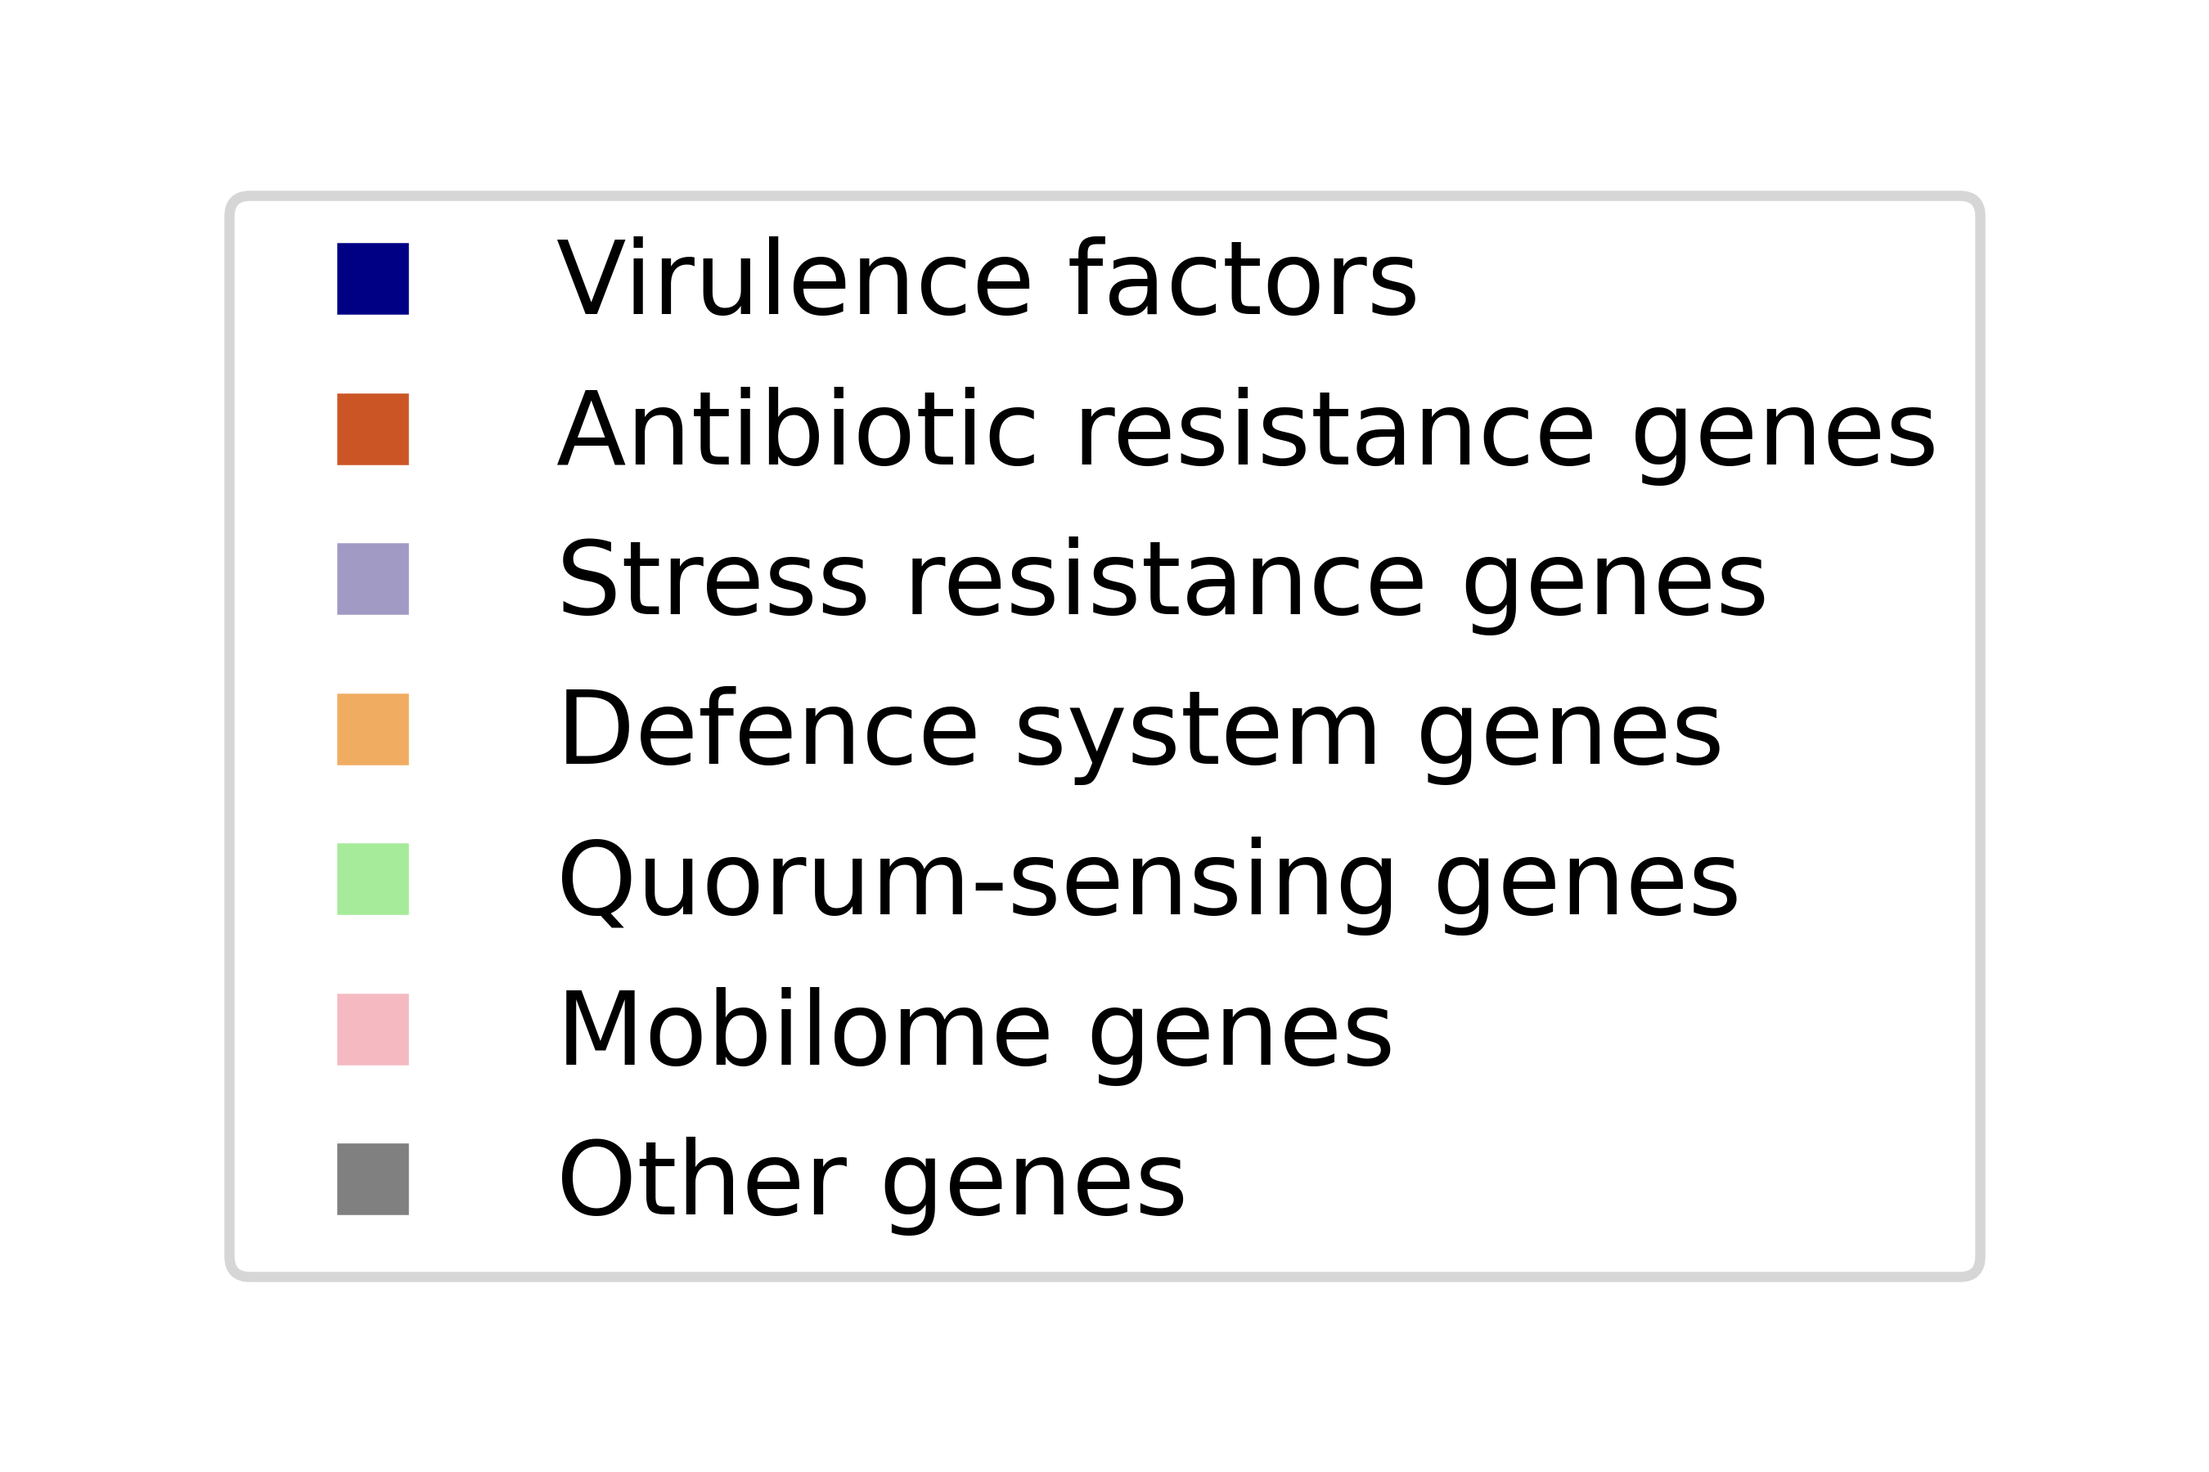
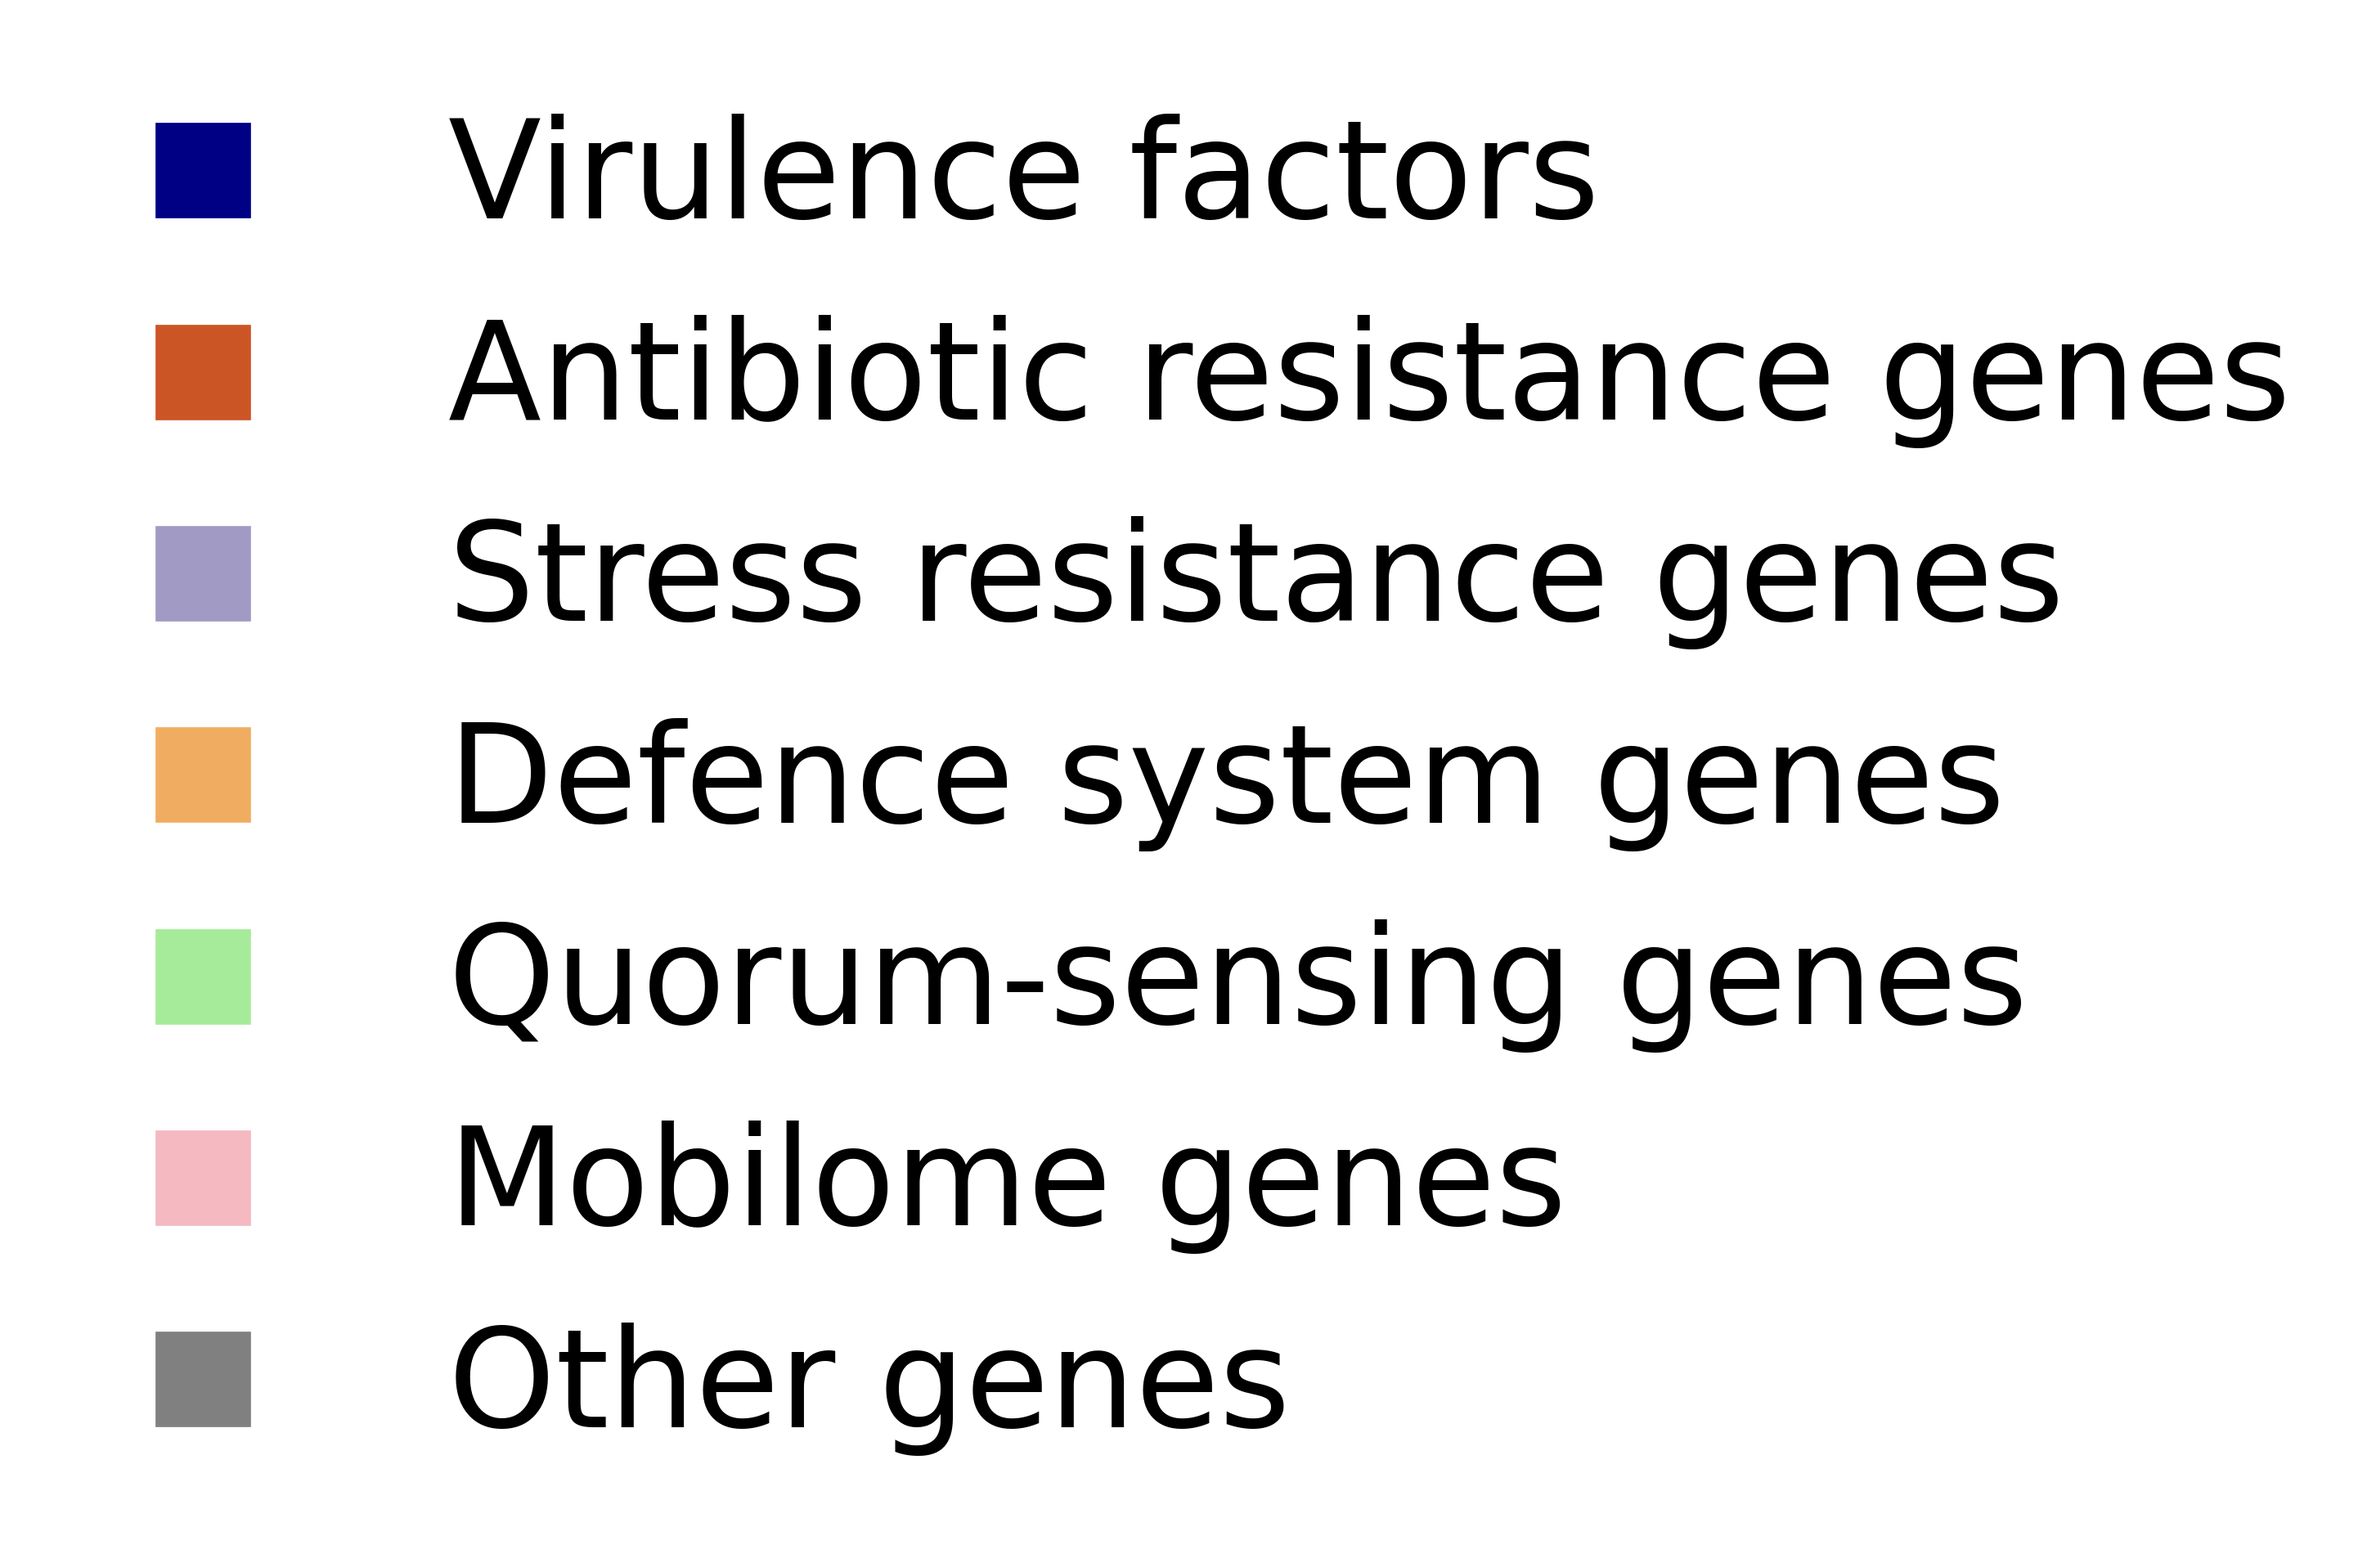
Formatting improvements
Enhanced image resolution, bold text appears better

Changed region(s): [[0.0622, 0.0622, 0.9644, 0.9333]]

diff --git a/index.html b/index.html
@@ -1,6 +1,15 @@
 <!DOCTYPE html>
 <html>
 
+<style>
+    @import url('https://fonts.googleapis.com/css2?family=Open+Sans:ital,wght@0,300;0,400;0,500;0,600;0,700;0,800;1,300;1,400;1,500;1,600;1,700;1,800&display=swap');
+
+    b, strong{
+        font-weight: 600;
+    }
+
+</style>
+
 <head>
     <title>
         Genomic plasticity as a blueprint of diversity in Salmonella lineages
@@ -17,9 +26,10 @@
     <div class="container">
 
         <!-- Heading, centered -->
-        <h2> <center>
-            Genomic plasticity as a blueprint of diversity in <i>Salmonella</i> lineages
-        </center> </h2>
+        <h1 style="font-weight: 600;"> <center>
+            Genomic plasticity as a blueprint of diversity <br>
+            in <i>Salmonella</i> lineages
+        </center> </h1>
         <!-- Authors' list -->
         <p>
             <i> <center>
@@ -28,65 +38,58 @@
             </center> </i>
             <br>
             The clusters of accessory shell and cloud genes form the region of genome plasticity (RGP) primarily originating from horizontal gene transfer events. These RGPs can be grouped into specific insertion spots based on the presence of conserved flanking persistent genes.
+            All code can be found <a href="https://github.com/SimranKushwaha/Genome-Plasticity-in-Salmonella"><b>here</b></a>.
             <br> <br>
             <!-- image -->
             <center>
-                <img src="img/RGP and Spot.png" alt="RGP and Spot" width="50%">
+                <img src="img/RGP and Spot.png" alt="RGP and Spot" width="60%">
             </center>
-            <br> <br>
             We identified 26 hotspots in <i>Salmonella</i>. Visualise the gene content of the spots and the RGPs with our interactive HTML files:
-            <br>
+            <br><br>
             <!-- List of Spots -->
-            <a href="spots/spot1.html">Spot 1 </a> – A hotspot for defence systems, particularly Septu type I <br>
-            <a href="spots/spot9.html">Spot 9</a> – A hotspot for virulence factors, particularly <i>sod</i> <br>
-            <a href="spots/spot11.html">Spot 11</a> – A hotspot for defence systems, particularly AbiE and Shango <br>
-            <a href="spots/spot15.html">Spot 15</a> – A hotspot for virulence factors, particularly <i>cdt</i> <br>
-            <a href="spots/spot17.html">Spot 17</a> – A hotspot for stress-resistance genes against gold <br>
-            <a href="spots/spot21.html">Spot 21</a> – A hotspot for virulence factors <i>ste</i> and <i>sse</i> <br>
-            <a href="spots/spot22.html">Spot 22</a> – A hotspot for defence systems CRISPR-Cas type I-E <br>
-            <a href="spots/spot30.html">Spot 30</a> – A hotspot for virulence factors <i>lpf</i> <br>
-            <a href="spots/spot31.html">Spot 31</a> – A hotspot for defence systems SEFIR <br>
-            <a href="spots/spot32.html">Spot 32</a> – A hotspot for virulence factors <i>sse</i> <br>
-            <a href="spots/spot36.html">Spot 36</a> – A hotspot for virulence factors, particularly <i>fae</i> <br>
-            <a href="spots/spot39.html">Spot 39</a> – A hotspot for multiple defence systems <br>
-            <a href="spots/spot43.html">Spot 43</a> – A hotspot for multiple defence systems <br>
-            <a href="spots/spot44.html">Spot 44</a> – A hotspot for multiple antibiotic resistance genes <br>
-            <a href="spots/spot47.html">Spot 47</a> – A hotspot for virulence factor <i>tcp</i> and defence systems Thoeris type I and II <br>
-            <a href="spots/spot51.html">Spot 51</a> – A hotspot for multiple antibiotic  and stress-resistance genes <br>
-            <a href="spots/spot53.html">Spot 53</a> – A hotspot for stress-resistance genes against copper and silver <br>
-            <a href="spots/spot54.html">Spot 54</a> – A hotspot for multiple virulence factors <br>
-            <a href="spots/spot63.html">Spot 63</a> – A hotspot for multiple defence systems <br>
-            <a href="spots/spot66.html">Spot 66</a> – A hotspot for defence system CBASS type I <br>
-            <a href="spots/spot68.html">Spot 68</a> – A hotspot for defence system RM type I and IV <br>
-            <a href="spots/spot79.html">Spot 79</a> – A hotspot for virulence factor <i>ssp</i> <br>
-            <a href="spots/spot89.html">Spot 89</a> – A hotspot for defence system RM type III <br>
-            <a href="spots/spot92.html">Spot 92</a> – A hotspot for virulence factor <i>sop</i> <br>
-            <a href="spots/spot94.html">Spot 94</a> – A hotspot for virulence factor <i>rat</i> <br>
-            <a href="spots/spot103.html">Spot 103</a> – A hotspot for stress-resistance genes against arsenic <br>
-            <br> <br>
+            <a href="spots/spot1.html"><b>Spot 1</b></a> – A hotspot for defence systems, particularly Septu type I <br>
+            <a href="spots/spot9.html"><b>Spot 9</b></a> – A hotspot for virulence factors, particularly <i>sod</i> <br>
+            <a href="spots/spot11.html"><b>Spot 11</b></a> – A hotspot for defence systems, particularly AbiE and Shango <br>
+            <a href="spots/spot15.html"><b>Spot 15</b></a> – A hotspot for virulence factors, particularly <i>cdt</i> <br>
+            <a href="spots/spot17.html"><b>Spot 17</b></a> – A hotspot for stress-resistance genes against gold <br>
+            <a href="spots/spot21.html"><b>Spot 21</b></a> – A hotspot for virulence factors <i>ste</i> and <i>sse</i> <br>
+            <a href="spots/spot22.html"><b>Spot 22</b></a> – A hotspot for defence systems CRISPR-Cas type I-E <br>
+            <a href="spots/spot30.html"><b>Spot 30</b></a> – A hotspot for virulence factors <i>lpf</i> <br>
+            <a href="spots/spot31.html"><b>Spot 31</b></a> – A hotspot for defence systems SEFIR <br>
+            <a href="spots/spot32.html"><b>Spot 32</b></a> – A hotspot for virulence factors <i>sse</i> <br>
+            <a href="spots/spot36.html"><b>Spot 36</b></a> – A hotspot for virulence factors, particularly <i>fae</i> <br>
+            <a href="spots/spot39.html"><b>Spot 39</b></a> – A hotspot for multiple defence systems <br>
+            <a href="spots/spot43.html"><b>Spot 43</b></a> – A hotspot for multiple defence systems <br>
+            <a href="spots/spot44.html"><b>Spot 44</b></a> – A hotspot for multiple antibiotic resistance genes <br>
+            <a href="spots/spot47.html"><b>Spot 47</b></a> – A hotspot for virulence factor <i>tcp</i> and defence systems Thoeris type I and II <br>
+            <a href="spots/spot51.html"><b>Spot 51</b></a> – A hotspot for multiple antibiotic  and stress-resistance genes <br>
+            <a href="spots/spot53.html"><b>Spot 53</b></a> – A hotspot for stress-resistance genes against copper and silver <br>
+            <a href="spots/spot54.html"><b>Spot 54</b></a> – A hotspot for multiple virulence factors <br>
+            <a href="spots/spot63.html"><b>Spot 63</b></a> – A hotspot for multiple defence systems <br>
+            <a href="spots/spot66.html"><b>Spot 66</b></a> – A hotspot for defence system CBASS type I <br>
+            <a href="spots/spot68.html"><b>Spot 68</b></a> – A hotspot for defence system RM type I and IV <br>
+            <a href="spots/spot79.html"><b>Spot 79</b></a> – A hotspot for virulence factor <i>ssp</i> <br>
+            <a href="spots/spot89.html"><b>Spot 89</b></a> – A hotspot for defence system RM type III <br>
+            <a href="spots/spot92.html"><b>Spot 92</b></a> – A hotspot for virulence factor <i>sop</i> <br>
+            <a href="spots/spot94.html"><b>Spot 94</b></a> – A hotspot for virulence factor <i>rat</i> <br>
+            <a href="spots/spot103.html"><b>Spot 103</b></a> – A hotspot for stress-resistance genes against arsenic <br>
             <!-- load img/legend.png to right of the text above, 50% width, aligned 
                 to the beginning of the bullet list and the heading -->
-            <h4>
+            <h3 style="font-weight: 600;">
                 <!-- left align -->
                 Legend for the plots of the spots
-                <!-- right align text below on same line -->
-                <span style="float:right">
-                Abbreviations for the Mobilome Gene Category
-                </span>
-            </h4>
-            <span style="float:right">
-            <ul>
-                <li>Integration and Excision: IE</li>
-                <li>Replication, Recombination, or Nucleic Acid Repair: RRR</li>
-                <li>Interorganism Transfer: T</li>
-                <li>Element Stability, Transfer, or Defense: STD</li>
-                <li>Phage-Specific Biological Processes: P</li>
-                <li>Hypothetical Proteins: HP</li>
-            </ul>
-            </span>
-            <img src="img/legend.png" alt="Legend" width="30%">
+            </h3>
+            <img src="img/legend.png" alt="Legend" width="23%">
             <!-- Abbreviations for the mobilome genome category -->
-            
+            <h3 style="font-weight: 600;">
+                Abbreviations for the mobilome gene category
+            </h3>
+            <b>IE</b> – Integration and Excision <br>
+            <b>RRR</b> – Replication, Recombination, or Nucleic Acid Repair <br>
+            <b>T</b> – Interorganism Transfer <br>
+            <b>STD</b> – Element Stability, Transfer, or Defense <br>
+            <b>P</b> – Phage-Specific Biological Processes <br>
+            <b>HP</b> – Hypothetical Proteins <br>
         </p>    
     </div>
 </body>
